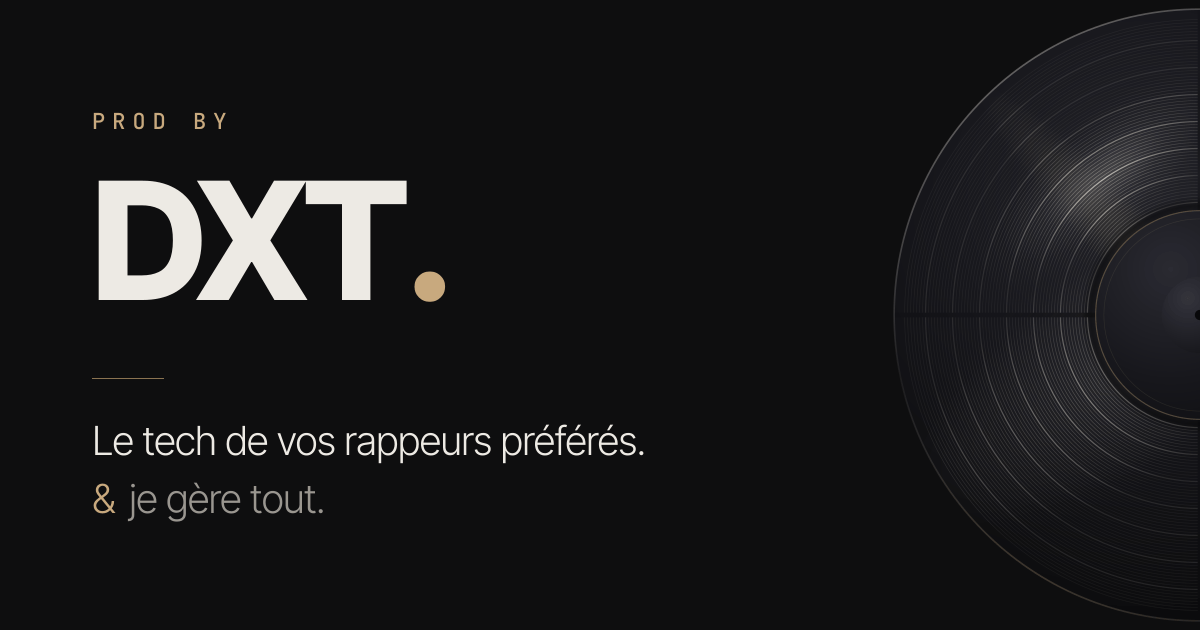
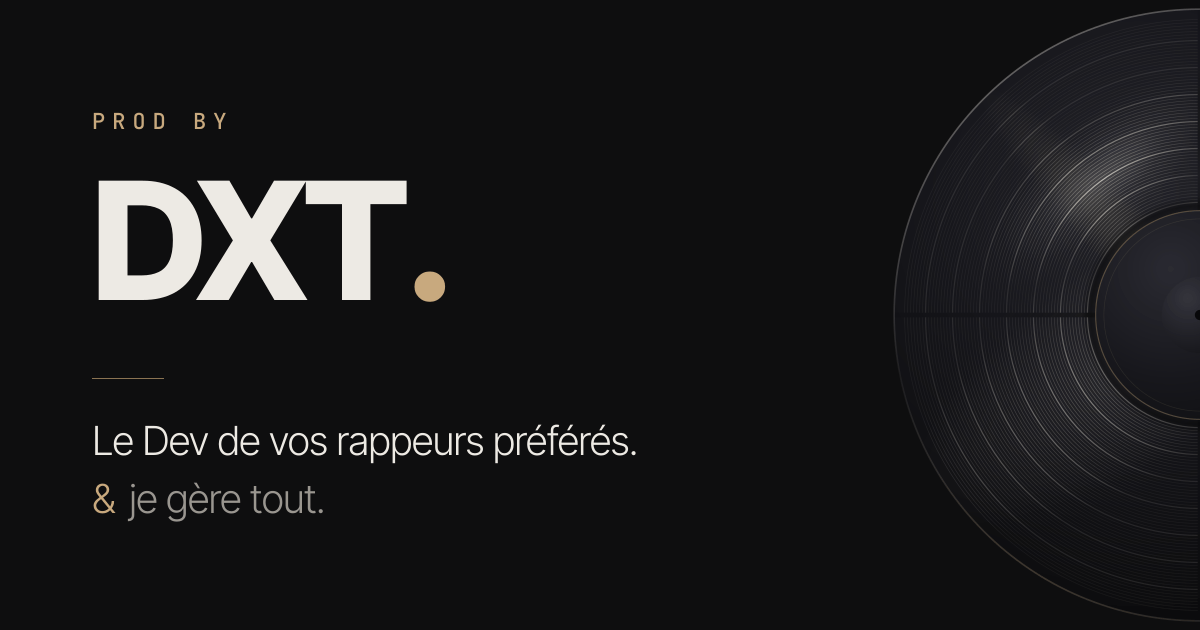
Slogan : "Le tech de vos rappeurs preferes" devient "Le Dev de vos rappeurs preferes"
Mis a jour partout : tagline du hero, titre SEO, texte alternatif Open
Graph, description du manifeste, README. L'image og.png est regeneree
car le slogan y est vectorise.

Changed region(s): [[0.1233, 0.6635, 0.555, 0.754]]

diff --git a/src/data/site.ts b/src/data/site.ts
@@ -14,7 +14,7 @@ export const site = {
     dot: '.',
   },
 
-  tagline: 'Le tech de vos rappeurs préférés.',
+  tagline: 'Le Dev de vos rappeurs préférés.',
   subTagline: '& je gère tout.',
 
   /** Une phrase sous le hero */
@@ -47,11 +47,11 @@ export const site = {
   ],
 
   seo: {
-    title: 'Prod by Dxt — Le tech de vos rappeurs préférés',
+    title: 'Prod by Dxt — Le Dev de vos rappeurs préférés',
     titleTemplate: '%s — Prod by Dxt',
     description:
       "Développeur freelance pour artistes et rappeurs : site vitrine, app communauté, boutique merch, landing de sortie, automatisation et maintenance. Tu fais la musique, je gère la technique.",
-    ogAlt: 'Prod by Dxt — Le tech de vos rappeurs préférés',
+    ogAlt: 'Prod by Dxt — Le Dev de vos rappeurs préférés',
     locale: 'fr_FR',
     keywords: [
       'développeur freelance artiste',

diff --git a/README.md b/README.md
@@ -1,6 +1,6 @@
 # Prod by Dxt — site vitrine
 
-> Le tech de vos rappeurs préférés. **&** je gère tout.
+> Le Dev de vos rappeurs préférés. **&** je gère tout.
 
 Site vitrine statique : une page avec ancres, une 404.
 Pas de backend, pas de base de données, pas de cookie.
